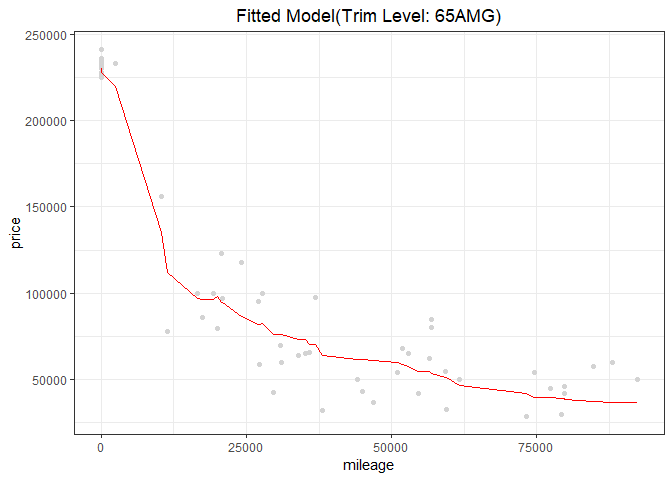
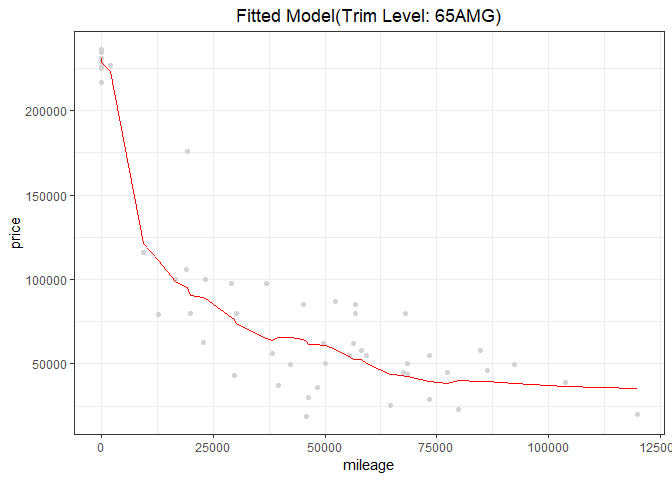
version 1.4

diff --git a/HW1/Report/Exercise_1_Report.md b/HW1/Report/Exercise_1_Report.md
@@ -122,7 +122,7 @@ We splited the data into a training and a testing set. There are 80% of the data
 
 The optimal K for trim level 350 is printed below:
 
-    ## [1] 5
+    ## [1] 9
 
 Since the traning set is chosen randomly, if we run the KNN for several times, we will get different result. But generally, we can get the optimal K for trim level 350 is about 19. Then for the optimal value of K in this one running, a plot of the fitted modelis shown below:
 
@@ -138,7 +138,7 @@ We splited the data into a training and a testing set. There are 80% of the data
 
 The optimal K for trim level 65 AMG is printed below:
 
-    ## [1] 32
+    ## [1] 26
 
 Since the traning set is chosen randomly, if we run the KNN for several times, we will get different result. But generally, we can get the optimal K for trim level 65 AMG is about 16. Then for the optimal value of K in this one running, a plot of the fitted modelis shown below:
 
